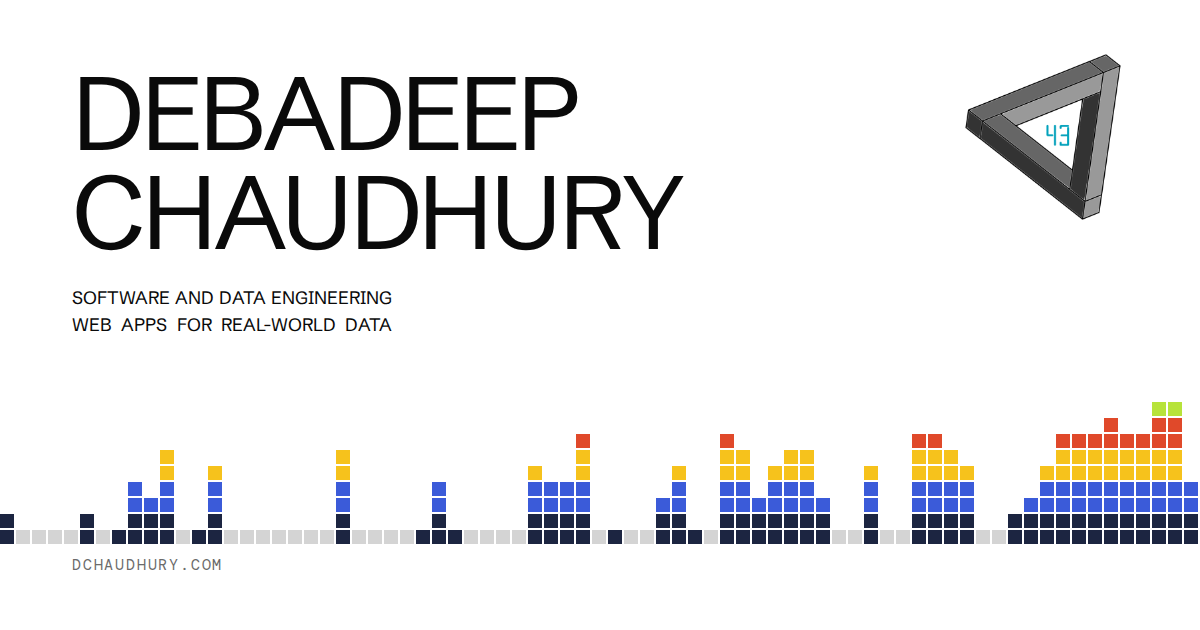
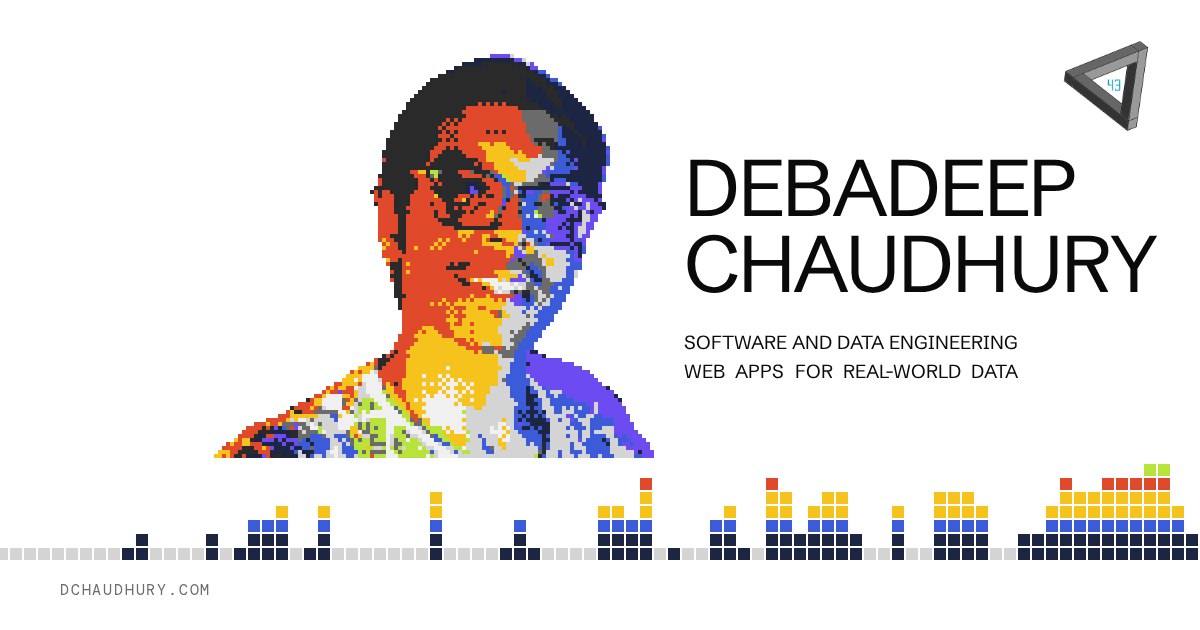
Use the voxel-empty token and put the portrait in the share image
- Vienna Voxel now has a voxel-empty colour (same greys as before). The
  band's empty days and the homelab's unknown markers use it instead of
  borrowing the border colour
- The share image shows the voxel portrait standing on the band, with
  name, tagline and logo. Solid voxels keep it vivid at preview sizes,
  and the face sits inside the centre square for square thumbnails
- scripts/og-image.mjs (pnpm og) renders public/og.png from the portrait,
  contribution data, tokens, fonts and logo

Claude-Session: https://claude.ai/code/session_013L9bBDrwKuZJciWdfZyDWi

Changed region(s): [[0.0, 0.0603, 1.0, 0.9048], [0.555, 0.5127, 0.8633, 0.6032], [0.0617, 0.9349, 0.1233, 0.9651]]

diff --git a/src/styles/tokens.css b/src/styles/tokens.css
@@ -143,6 +143,7 @@
   --color-voxel-3: #f6c21c;
   --color-voxel-4: #e0492a;
   --color-voxel-5: #b7e33a;
+  --color-voxel-empty: #d4d4d4;
   --color-success: oklch(0.5 0.12 150);
   --color-warning: oklch(0.58 0.13 70);
   --color-danger: oklch(0.53 0.18 27);
@@ -168,6 +169,7 @@
     --color-voxel-3: #f6c21c;
     --color-voxel-4: #f0735a;
     --color-voxel-5: #b7e33a;
+    --color-voxel-empty: #333333;
     --color-success: oklch(0.78 0.14 150);
     --color-warning: oklch(0.83 0.13 80);
     --color-danger: oklch(0.72 0.16 27);
@@ -193,6 +195,7 @@
   --color-voxel-3: #f6c21c;
   --color-voxel-4: #f0735a;
   --color-voxel-5: #b7e33a;
+  --color-voxel-empty: #333333;
   --color-success: oklch(0.78 0.14 150);
   --color-warning: oklch(0.83 0.13 80);
   --color-danger: oklch(0.72 0.16 27);

diff --git a/src/scripts/voxel-field.ts b/src/scripts/voxel-field.ts
@@ -45,7 +45,7 @@ export function mountVoxelField(root: HTMLElement): void {
   function readColours() {
     const style = getComputedStyle(root);
     colours = Array.from({ length: LAYERS }, (_, i) => style.getPropertyValue(`--color-voxel-${i + 1}`).trim());
-    baseline = style.getPropertyValue('--color-border').trim();
+    baseline = style.getPropertyValue('--color-voxel-empty').trim();
   }
 
   function measure() {
